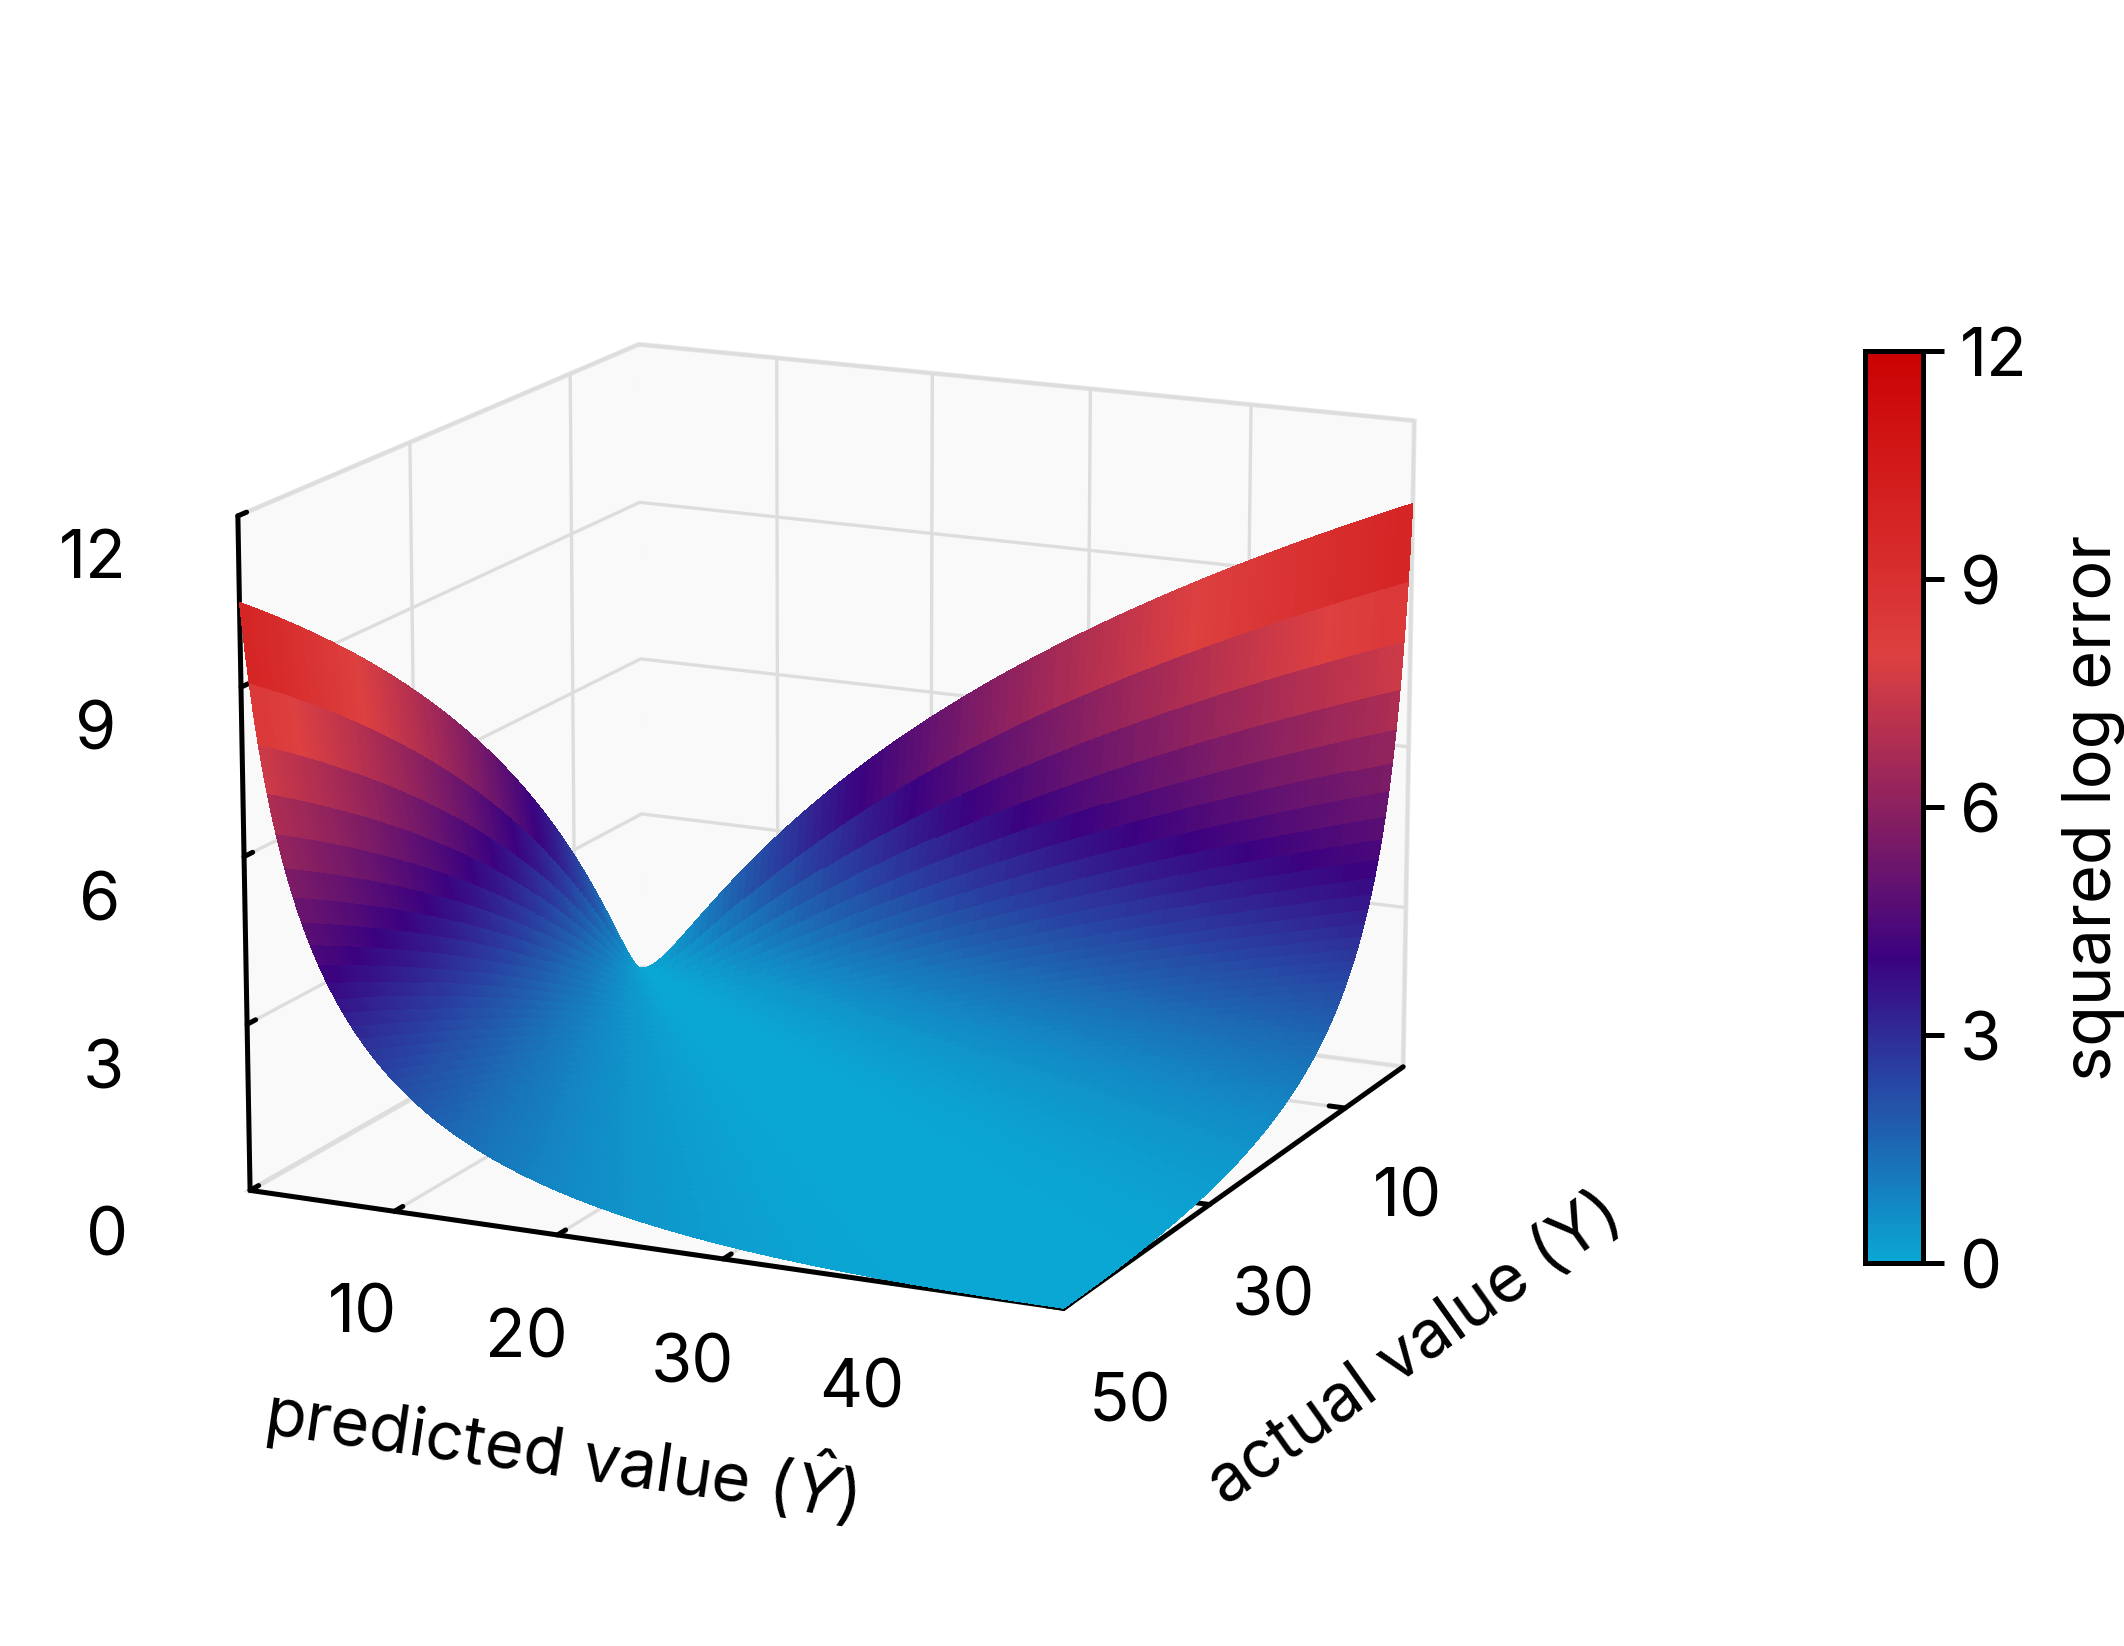
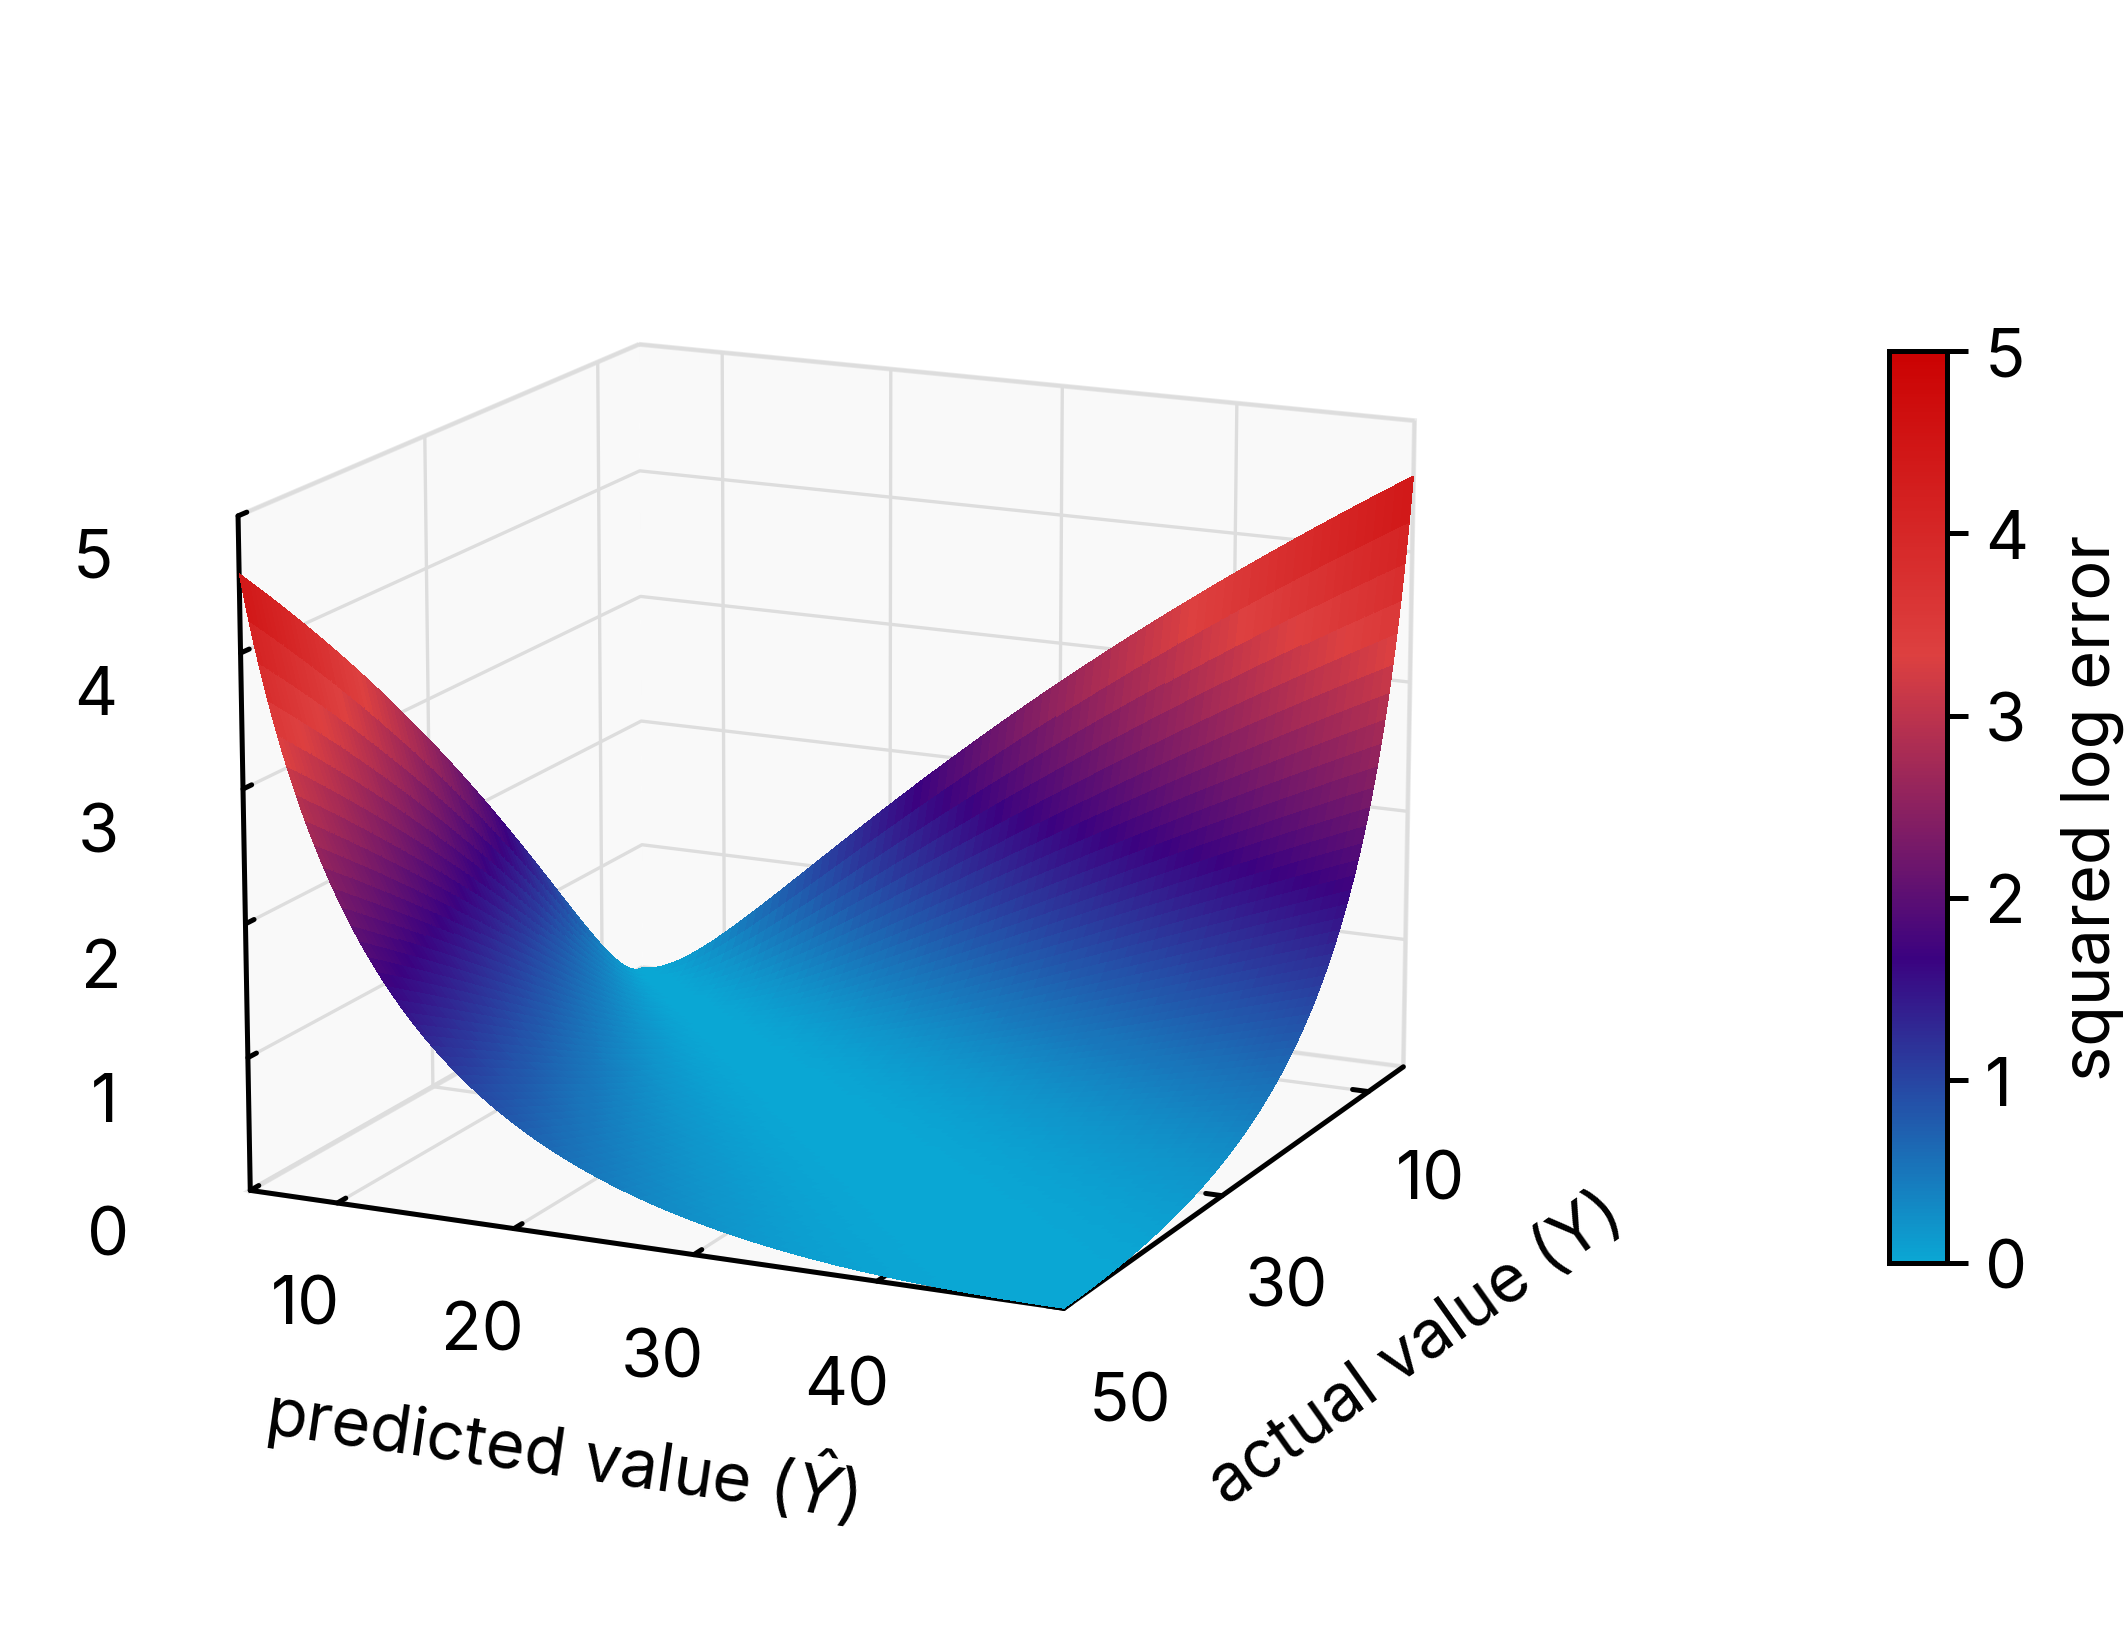
Redraw the MSLE surface so its valley is visible

diff --git a/notebooks/surfaces.py b/notebooks/surfaces.py
@@ -82,14 +82,14 @@ def regression():
     yield 'sMAPE_3d_surface', lambda: surface('sMAPE_3d_surface', Yg, Pg,
         200 * np.abs(Yg - Pg) / (np.abs(Yg) + np.abs(Pg)),
         cbar_label='sMAPE term (%)', zticks=[0, 50, 100, 150], **common)
-    # MSLE starts at 1 so the caption's example (Y = 10, predictions 5 and 15)
-    # and the steep penalty near zero are on the surface.
-    v = np.linspace(1, 50, 197)
+    # MSLE starts at 5 so the caption's example (Y = 10, predictions 5 and 15)
+    # is on the surface without the near-zero spike squeezing the valley.
+    v = np.linspace(5, 50, 181)
     Yl, Pl = np.meshgrid(v, v)
     msle = (np.log1p(Yl) - np.log1p(Pl)) ** 2
     yield 'MSLE_3d_surface', lambda: surface('MSLE_3d_surface', Yl, Pl, msle,
-        cbar_label='squared log error', zticks=[0, 3, 6, 9, 12],
-        xlim=(1, 50), ylim=(1, 50), **{**common, 'xticks': [10, 30, 50]})
+        cbar_label='squared log error', zticks=[0, 1, 2, 3, 4, 5],
+        xlim=(5, 50), ylim=(5, 50), **{**common, 'xticks': [10, 30, 50]})
 
 
 def classification():
